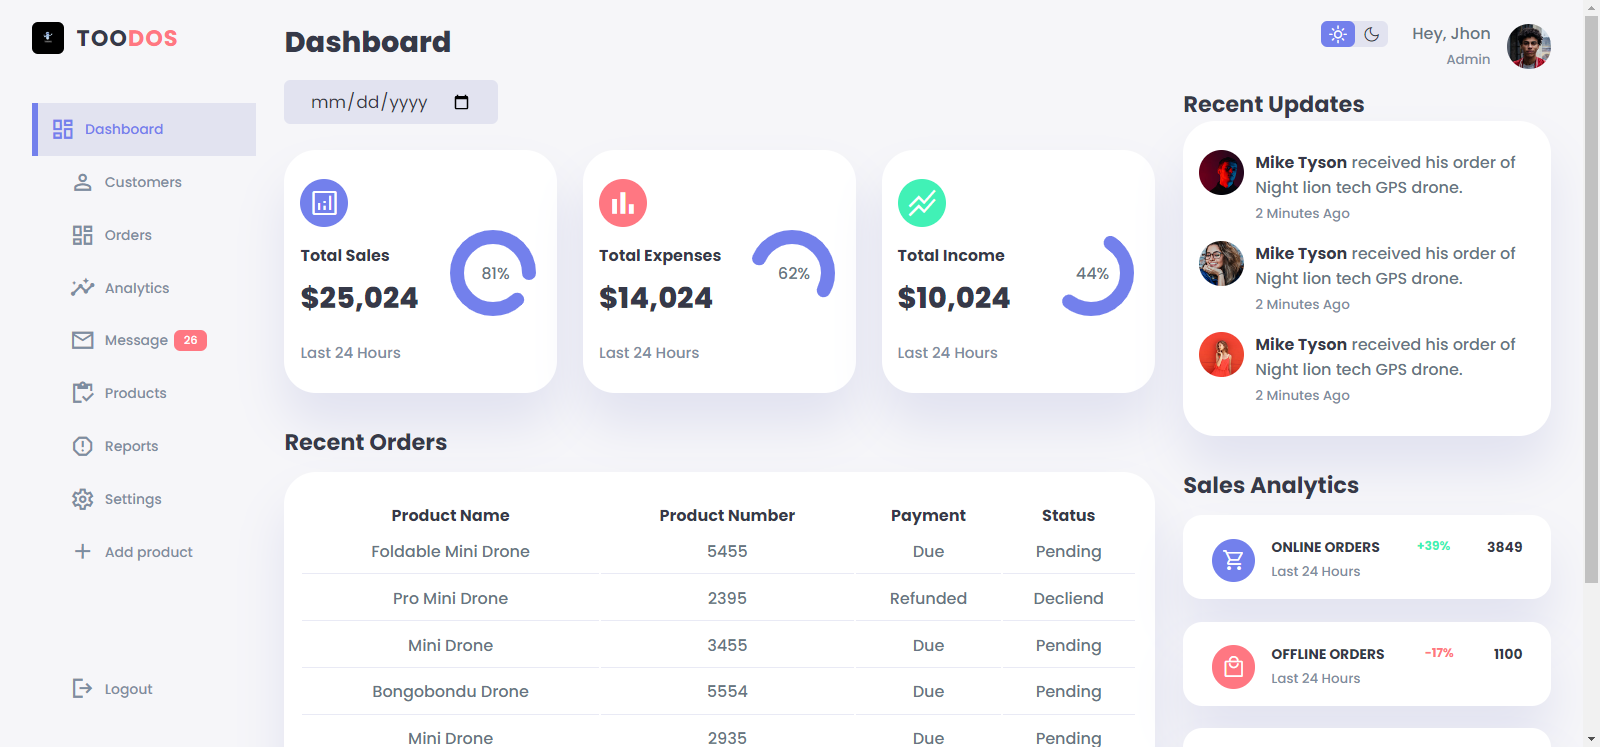
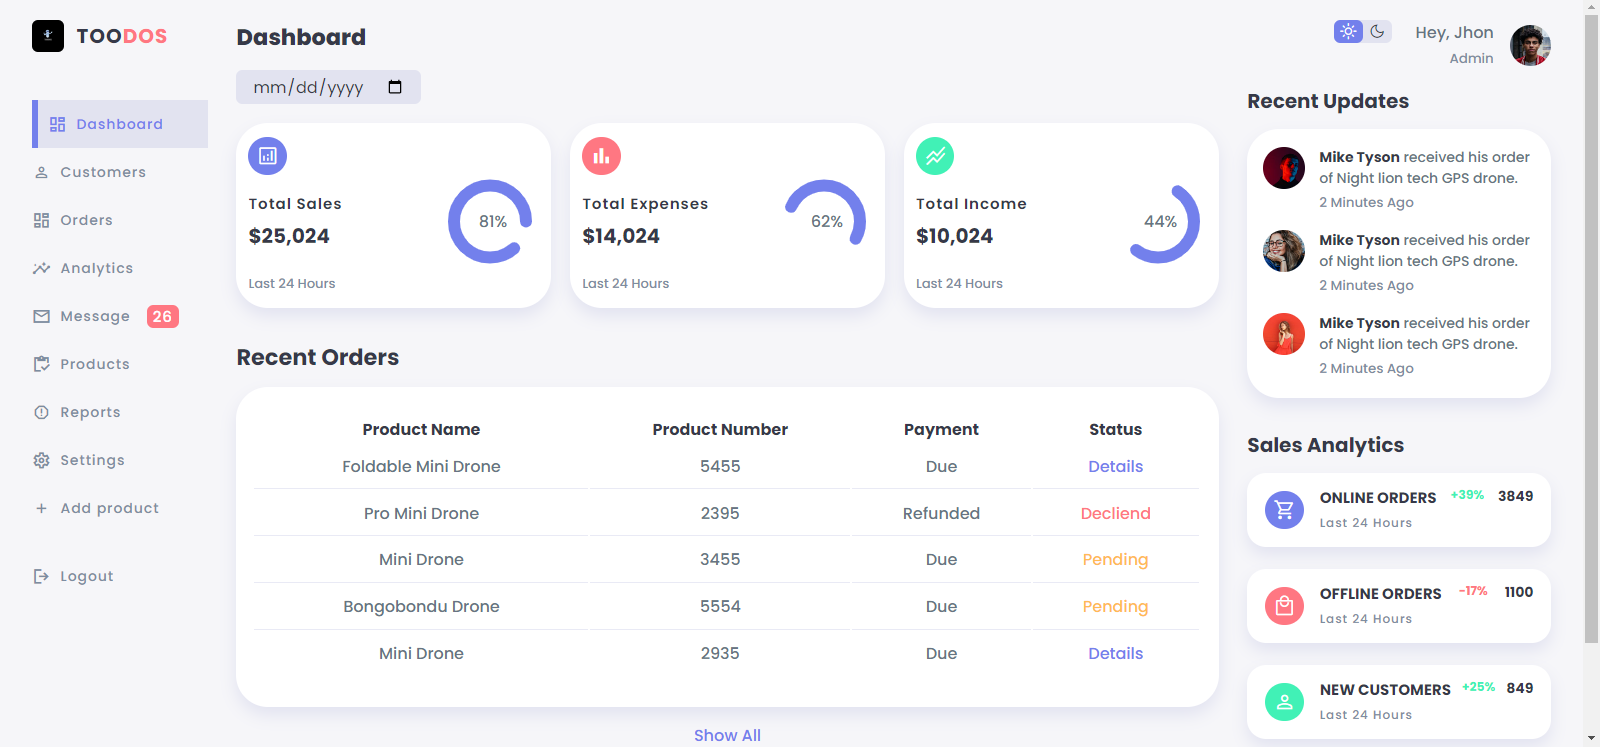
add some responsive problem

diff --git a/css/style.css b/css/style.css
@@ -1,9 +1,6 @@
 /* -- google fonts poppins -- */
 @import url('https://fonts.googleapis.com/css2?family=Poppins:ital,wght@0,100;0,200;0,300;0,400;0,500;0,600;0,700;0,800;0,900;1,100;1,200;1,300;1,400;1,500;1,600;1,700;1,800;1,900&display=swap');
 
-
-/* === start === */
-
 /* -- 
 global css start
 -- */
@@ -35,7 +32,7 @@ global css start
     --card-padding: 1.8rem 1rem;
     --padding-1: 1.2rem;
 
-    --box-shadow: 0 2rem 3rem var(--color-light);
+    --box-shadow: 0 .5rem 1rem var(--color-light);
 }
 
 /* dark theme variable */
@@ -45,7 +42,7 @@ global css start
     --color-dark: #edeffd;
     --color-dark-variant: #a3bdcc;
     --color-light: rgba(0, 0, 0, 0.4);
-    --box-shadow: 0rem 2rem 3rem var(--color-light);
+    --box-shadow: 0 .5rem 1rem var(--color-light);
     transition: var(--box-shadow) 0s ease;
 }
 
@@ -73,7 +70,6 @@ body {
     margin: 0px;
     background-color: var(--color-background);
     user-select: none;
-    /* overflow-x: hidden; */
     color: var(--color-dark);
 }
 
@@ -256,13 +252,11 @@ aside .sidebar a {
     align-items: center;
     position: relative;
     height: 3rem;
-    transition: background-color 300ms ease;
 }
 
 aside .sidebar a span {
     font-size: 1.2rem;
     transition: all 300ms ease;
-    /* margin-left: 10px; */
 }
 
 aside .sidebar a:last-child {
@@ -291,10 +285,6 @@ aside .sidebar a:hover {
     color: var(--color-primary);
 }
 
-aside .sidebar a:hover span {
-    /* margin-left: 1rem; */
-}
-
 aside .sidebar a .massage-count {
     background-color: var(--color-danger);
     color: #fff;
@@ -305,8 +295,6 @@ aside .sidebar a .massage-count {
     margin-left: 16px;
     font-weight: 500;
 }
-
-
 
 main {
     margin-top: 1.4rem;
@@ -346,7 +334,7 @@ main .insights>div {
 }
 
 main .insights>div:hover {
-    box-shadow: 0 .5rem 1rem var(--color-light);
+    box-shadow: 0 .2rem .6rem var(--color-light);
 }
 
 main .insights>div span {
@@ -377,7 +365,6 @@ main .insights h3 {
     font-weight: 600;
     letter-spacing: 1px;
 }
-
 
 main .insights h1 {
     font-size: 20px;
@@ -463,7 +450,7 @@ main .recent-orders table {
 }
 
 main .recent-orders table:hover {
-    box-shadow: 0 .5rem 1rem var(--color-light);
+    box-shadow: 0 .2rem .6rem var(--color-light);
 }
 
 main .recent-orders table tbody td {
@@ -484,7 +471,6 @@ main .recent-orders a {
     color: var(--color-primary);
     text-align: center;
 }
-
 
 .right {
     margin-top: 1.4rem;
@@ -556,7 +542,7 @@ main .recent-orders a {
 }
 
 .right .recent-updates .updates:hover {
-    box-shadow: 0 .5rem 1rem var(--color-light);
+    box-shadow: 0 .2rem .6rem var(--color-light);
 }
 
 .right .recent-updates .updates .update {
@@ -600,7 +586,7 @@ main .recent-orders a {
 }
 
 .right .sales-analytics .item:hover {
-    box-shadow: 0 .5rem 1rem var(--color-light);
+    box-shadow: 0 .2rem .6rem var(--color-light);
 }
 
 .right .sales-analytics .item .right {
@@ -652,12 +638,9 @@ main .recent-orders a {
     border: 2px dashed var(--color-primary);
     cursor: pointer;
     padding: 1.2rem 1rem;
-    /* transition:color 300ms ease, */
-    /* box-shadow 300ms ease; */
 }
 
 .right .sales-analytics .item.add-product:hover {
-    box-shadow: none;
     color: var(--color-white);
     background-color: var(--color-primary);
 }
@@ -841,15 +824,12 @@ main .recent-orders a {
     .right .top .theme-toggle {
         height: 1.8rem !important;
     }
-
 }
 
 @media (max-width:1042px) {
-
     .container {
         gap: 1rem;
     }
-
 }
 
 @media (max-width:1038px) {
@@ -894,7 +874,6 @@ main .recent-orders a {
     .right .sales-analytics .items .item {
         margin-bottom: 0rem;
     }
-
 }
 
 @media (max-width:767px) {
@@ -916,23 +895,18 @@ main .recent-orders a {
     .right .sales-analytics .items .item {
         margin-bottom: 2rem;
     }
-
 }
 
 @media (max-width:720px) {
-
     .right .top .theme-toggle {
         left: 75%;
     }
-
 }
 
 @media (max-width:664px) {
-
     main .insights {
         grid-template-columns: 1fr;
     }
-
 }
 
 @media (max-width:596px) {
@@ -945,13 +919,11 @@ main .recent-orders a {
     .right .top .theme-toggle {
         left: 70%;
     }
-
 }
 
 
 
 @media (max-width:436px) {
-
     .right .top .theme-toggle {
         left: 60%;
     }
@@ -959,8 +931,6 @@ main .recent-orders a {
     main .recent-orders table tbody td {
         font-size: 14px;
     }
-
-
 }
 
 @media (max-width:340px) {
@@ -972,6 +942,3 @@ main .recent-orders a {
 /* -- 
 specific css end
 -- */
-
-
-/* === end ==== */

diff --git a/js/orders.js b/js/orders.js
@@ -28,59 +28,5 @@ const orders = [
         productNumber: '2935',
         paymentStatus: 'Due',
         shipping: 'Details'
-    },
-    {
-        productName: 'Foldable Drone',
-        productNumber: '56564',
-        paymentStatus: 'Due',
-        shipping: 'Pending'
-    },
-    {
-        productName: 'Pro Mini Drone',
-        productNumber: '96832',
-        paymentStatus: 'Due',
-        shipping: 'Pending'
-    },
-    {
-        productName: 'Foldable Mini Drone',
-        productNumber: '5455',
-        paymentStatus: 'Due',
-        shipping: 'Pending'
-    },
-    {
-        productName: 'Pro Mini Drone',
-        productNumber: '2395',
-        paymentStatus: 'Refunded',
-        shipping: 'Decliend'
-    },
-    {
-        productName: 'Mini Drone',
-        productNumber: '3455',
-        paymentStatus: 'Due',
-        shipping: 'Pending'
-    },
-    {
-        productName: 'Bongobondu Drone',
-        productNumber: '5554',
-        paymentStatus: 'Due',
-        shipping: 'Pending'
-    },
-    {
-        productName: 'Mini Drone',
-        productNumber: '2935',
-        paymentStatus: 'Due',
-        shipping: 'Pending'
-    },
-    {
-        productName: 'Foldable Drone',
-        productNumber: '56564',
-        paymentStatus: 'Due',
-        shipping: 'Pending'
-    },
-    {
-        productName: 'Pro Mini Drone',
-        productNumber: '96832',
-        paymentStatus: 'Due',
-        shipping: 'Pending'
     }
 ];

diff --git a/js/main.js b/js/main.js
@@ -25,6 +25,7 @@
     });
 
     themeToggle.addEventListener('click', () => {
+        
         document.body.classList.toggle('dark-theme-variables');
 
         themeToggle.firstElementChild.classList.toggle('active');
